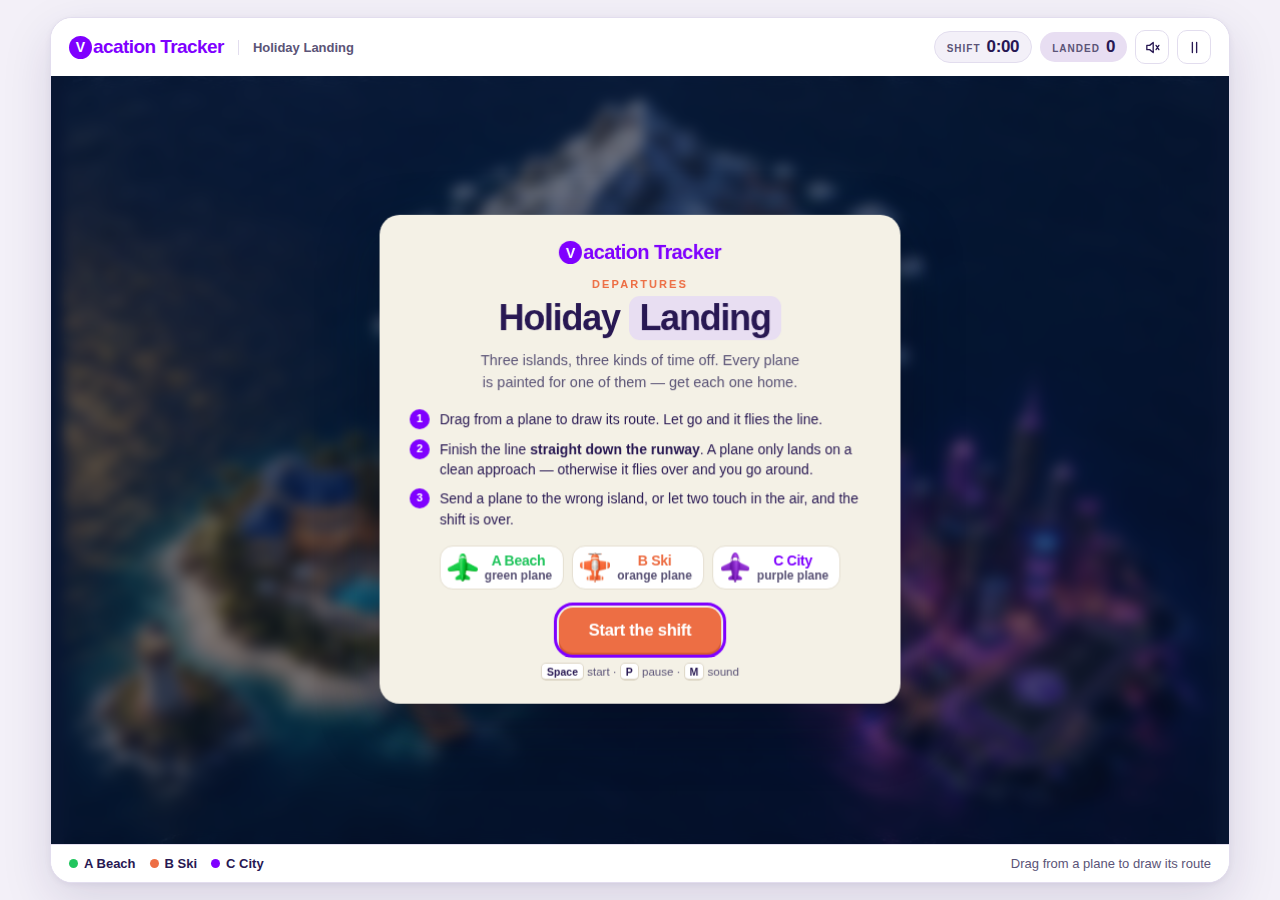
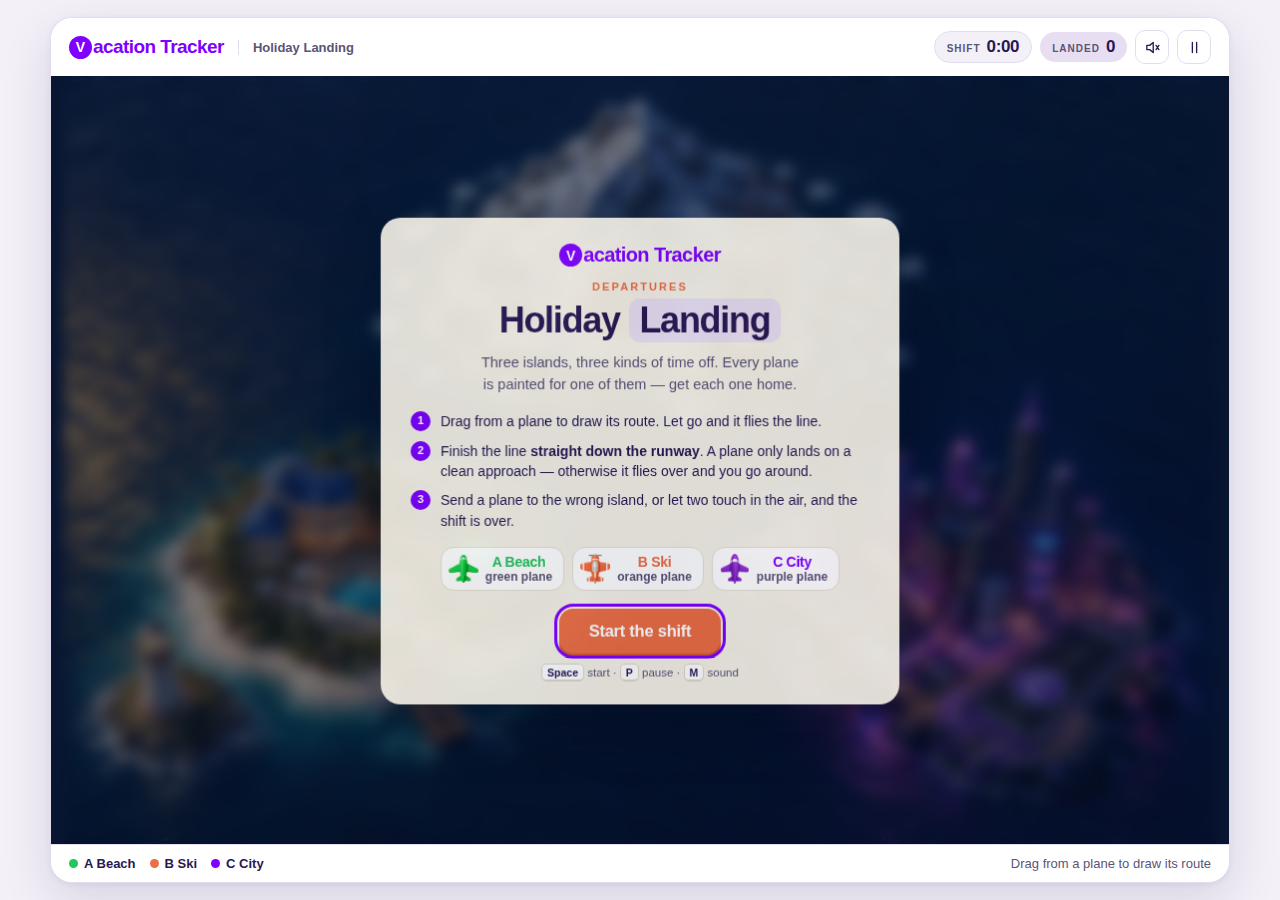
Stop the portrait gate firing on desktops, and fit the cards to short playfields
The artifact preview pane is about 610x660 - portrait, and under the 640px the
gate keys on - so it was showing "Turn your phone sideways" on a desktop. Anyone
opening a shared link in a narrow window or a side panel saw the same. That
panel yields a 580x387 playfield, larger than the 525x350 landscape-phone case
the spec already accepts, so gating it was plainly wrong.

The gate now also requires pointer:coarse, which is what separates a phone held
upright from a narrow browser window.

That exposed a second problem behind it: at 387px of playfield the start card
overflowed and the Start button sat below the fold. The cards now compact at
narrow widths and short heights, and below 520px wide (or 430px tall) the
overlay centres on the window rather than on the playfield, where there is
plenty of empty page above and below. Two lines drop out at the extremes: the
keyboard hint under 470px tall, then the framing sentence under 400px, by which
point the three rules carry everything a player needs.

Checked across fifteen window sizes from 380x700 to 1920x1080: both cards fit
with no overflow, the button stays reachable, and the canvas holds 1.5006.

Tests: 41 passing. Six cases pin which shapes the gate covers and which it must
stay out of, and one walks all fifteen sizes asserting both cards fit.

Claude-Session: https://claude.ai/code/session_019TZDTfSHxzrQf2YcUSXhd5

Changed region(s): [[0.3125, 0.2178, 0.6875, 0.5911], [0.3438, 0.5911, 0.6562, 0.7778]]

diff --git a/tests/01-load.spec.js b/tests/01-load.spec.js
@@ -52,3 +52,98 @@ test('every approach guide stays inside the canvas (10.2)', async ({ page }) => 
     }
   }
 });
+
+/* The portrait gate is for a phone held upright and nothing else. A narrow
+   browser window or an embedded side panel is also portrait and under 640px,
+   but it still gets a usable playfield, so gating it would be a regression —
+   and the artifact preview pane is exactly that shape. */
+const GATE_CASES = [
+  { w: 610,  h: 660,  touch: false, gated: false, what: 'artifact side panel' },
+  { w: 430,  h: 860,  touch: true,  gated: true,  what: 'phone held upright' },
+  { w: 430,  h: 860,  touch: false, gated: false, what: 'narrow desktop window' },
+  { w: 844,  h: 390,  touch: true,  gated: false, what: 'phone on its side' },
+  { w: 820,  h: 1180, touch: true,  gated: false, what: 'tablet upright' },
+  { w: 1280, h: 900,  touch: false, gated: false, what: 'desktop' },
+];
+
+for (const c of GATE_CASES) {
+  test(`the rotate gate ${c.gated ? 'covers' : 'stays out of'} a ${c.what}`, async ({ browser }) => {
+    const ctx = await browser.newContext({
+      viewport: { width: c.w, height: c.h }, hasTouch: c.touch, isMobile: c.touch,
+    });
+    const page = await ctx.newPage();
+    await load(page);
+    const r = await page.evaluate(() => {
+      const g = document.querySelector('.rotate');
+      const cv = document.getElementById('cv').getBoundingClientRect();
+      return {
+        gated: getComputedStyle(g).display !== 'none',
+        w: cv.width, h: cv.height, ratio: cv.width / cv.height,
+      };
+    });
+    expect(r.gated, `${c.w}x${c.h} touch=${c.touch}`).toBe(c.gated);
+    if (!c.gated) {
+      // whatever is not gated has to be actually playable
+      expect(r.w, `playfield was only ${Math.round(r.w)}px wide`).toBeGreaterThan(320);
+      expect(Math.abs(r.ratio - 1.501)).toBeLessThan(0.005);
+    }
+    await ctx.close();
+  });
+}
+
+/* Whatever the window, both cards have to fit inside it — an unreachable Start
+   button is a hard failure, and the artifact preview pane is one of these
+   shapes. */
+const FIT_SIZES = [
+  [610, 660], [560, 600], [500, 900], [430, 860], [380, 700], [700, 760],
+  [844, 390], [740, 360], [667, 375], [1024, 768], [1280, 900], [1440, 760],
+  [1920, 1080], [1280, 620], [900, 420],
+];
+
+test('the start and game-over cards fit every window size', async ({ page }) => {
+  await load(page);
+  const bad = [];
+  for (const [w, h] of FIT_SIZES) {
+    await page.setViewportSize({ width: w, height: h });
+    await page.waitForTimeout(60);
+
+    await page.evaluate(() => { window.__HL.S.phase = 'start'; });
+    await page.evaluate(() => {
+      const c = document.getElementById('card');
+      window.__probe = () => {
+        const btn = document.getElementById('go').getBoundingClientRect();
+        return {
+          overflow: c.scrollHeight - c.clientHeight,
+          reachable: btn.bottom <= innerHeight + 0.5 && btn.top >= -0.5,
+        };
+      };
+    });
+    const start = await page.evaluate(() => window.__probe());
+
+    // now the game-over card, which is the taller of the two
+    await page.evaluate(() => {
+      const H = window.__HL;
+      H.start(); H.hold(true); H.freeze(true); H.clear();
+      const r = H.RW.B;
+      H.add('a', r.tx - r.ux * 10, r.ty - r.uy * 10, r.deg, true);
+      for (let i = 0; i < 140; i++) H.step(1 / 60);
+    });
+    const over = await page.evaluate(() => {
+      const c = document.getElementById('card');
+      const btn = document.getElementById('go').getBoundingClientRect();
+      return {
+        overflow: c.scrollHeight - c.clientHeight,
+        reachable: btn.bottom <= innerHeight + 0.5 && btn.top >= -0.5,
+      };
+    });
+
+    for (const [name, r] of [['start', start], ['game-over', over]]) {
+      if (r.overflow > 0 || !r.reachable) {
+        bad.push(`${w}x${h} ${name}: overflow ${r.overflow}px, button ${r.reachable ? 'reachable' : 'OUT OF REACH'}`);
+      }
+    }
+    await page.reload();
+    await page.waitForFunction(() => window.__HL && !document.getElementById('veil').hidden);
+  }
+  expect(bad, `cards did not fit:\n  ${bad.join('\n  ')}`).toEqual([]);
+});

diff --git a/dist/artifact.html b/dist/artifact.html
@@ -151,9 +151,55 @@ kbd{font-family:inherit;font-size:10.5px;font-weight:750;background:#fff;border:
   .ftr{flex-wrap:wrap;gap:6px 14px}
   .hint{white-space:normal}
 }
-/* phones only: an 800px-wide tablet in portrait still gets a usable
-   790x526 playfield, so gating it would be a worse experience */
-@media (max-width:640px) and (orientation:portrait){ .rotate{display:grid} }
+/* A narrow window — or an embedded side panel, which is what the artifact
+   preview is — leaves a short playfield, so the cards have to shrink to fit
+   inside it rather than scroll. This touches the cards only; the header and
+   footer still fit at this width and stay put. */
+@media (max-width:820px), (max-height:620px){
+  .veil{padding:10px}
+  .card{padding:15px 17px;border-radius:15px}
+  .card .brand{margin-bottom:6px;font-size:16px}
+  .eyebrow{font-size:10px;letter-spacing:.16em;margin-bottom:4px}
+  h1{font-size:23px;margin-bottom:5px}
+  .lede{margin-bottom:9px;font-size:12.5px;line-height:1.38;max-width:34ch}
+  ol.rules{margin-bottom:10px}
+  ol.rules li{font-size:12px;margin-bottom:5px;padding-left:25px;line-height:1.35}
+  ol.rules li::before{width:17px;height:17px;font-size:10px}
+  .routes{margin-bottom:10px;gap:6px}
+  .route{padding:4px 8px 4px 5px;border-radius:11px;gap:5px}
+  .route img{width:22px;height:22px}
+  .route .k{font-size:12px}
+  .route .n{font-size:10.5px}
+  .btn{padding:9px 20px;font-size:14.5px;border-radius:12px}
+  .keys,.by{margin-top:8px;font-size:10.5px}
+  .reason{padding:9px 11px;font-size:12.5px;margin-bottom:10px}
+  .final{margin-bottom:10px;gap:6px}
+  .stat{padding:7px 11px;min-width:56px;border-radius:11px}
+  .stat u{font-size:9px}
+  .stat s{font-size:18px}
+}
+
+/* On a very short viewport — a phone on its side — the keyboard hint is both
+   the least useful line on the card and the last one to fit. */
+@media (max-height:470px){ .keys{display:none} }
+/* Shorter again and the framing line has to go too; the three rules still
+   say everything a player needs. */
+@media (max-height:400px){ .lede{display:none} }
+
+/* Narrower still and the playfield is shorter than any usable card, so the
+   overlay centres on the window rather than on the playfield — there is plenty
+   of empty page above and below it at that size. */
+@media (max-width:520px), (max-height:430px){
+  .veil{position:fixed;inset:0;z-index:30}
+}
+
+/* Phones held upright, and nothing else. `pointer:coarse` is what keeps this
+   off a desktop: a narrow browser window or a side panel is portrait and under
+   640px too, but it still gets a usable playfield (610x660 gives 580x387,
+   larger than the landscape-phone case), so gating it would be a regression. */
+@media (max-width:640px) and (orientation:portrait) and (pointer:coarse){
+  .rotate{display:grid}
+}
 @media (prefers-reduced-motion:reduce){ .card{animation:none} }
 </style>
 

diff --git a/dist/holiday-landing.html b/dist/holiday-landing.html
@@ -158,9 +158,55 @@ kbd{font-family:inherit;font-size:10.5px;font-weight:750;background:#fff;border:
   .ftr{flex-wrap:wrap;gap:6px 14px}
   .hint{white-space:normal}
 }
-/* phones only: an 800px-wide tablet in portrait still gets a usable
-   790x526 playfield, so gating it would be a worse experience */
-@media (max-width:640px) and (orientation:portrait){ .rotate{display:grid} }
+/* A narrow window — or an embedded side panel, which is what the artifact
+   preview is — leaves a short playfield, so the cards have to shrink to fit
+   inside it rather than scroll. This touches the cards only; the header and
+   footer still fit at this width and stay put. */
+@media (max-width:820px), (max-height:620px){
+  .veil{padding:10px}
+  .card{padding:15px 17px;border-radius:15px}
+  .card .brand{margin-bottom:6px;font-size:16px}
+  .eyebrow{font-size:10px;letter-spacing:.16em;margin-bottom:4px}
+  h1{font-size:23px;margin-bottom:5px}
+  .lede{margin-bottom:9px;font-size:12.5px;line-height:1.38;max-width:34ch}
+  ol.rules{margin-bottom:10px}
+  ol.rules li{font-size:12px;margin-bottom:5px;padding-left:25px;line-height:1.35}
+  ol.rules li::before{width:17px;height:17px;font-size:10px}
+  .routes{margin-bottom:10px;gap:6px}
+  .route{padding:4px 8px 4px 5px;border-radius:11px;gap:5px}
+  .route img{width:22px;height:22px}
+  .route .k{font-size:12px}
+  .route .n{font-size:10.5px}
+  .btn{padding:9px 20px;font-size:14.5px;border-radius:12px}
+  .keys,.by{margin-top:8px;font-size:10.5px}
+  .reason{padding:9px 11px;font-size:12.5px;margin-bottom:10px}
+  .final{margin-bottom:10px;gap:6px}
+  .stat{padding:7px 11px;min-width:56px;border-radius:11px}
+  .stat u{font-size:9px}
+  .stat s{font-size:18px}
+}
+
+/* On a very short viewport — a phone on its side — the keyboard hint is both
+   the least useful line on the card and the last one to fit. */
+@media (max-height:470px){ .keys{display:none} }
+/* Shorter again and the framing line has to go too; the three rules still
+   say everything a player needs. */
+@media (max-height:400px){ .lede{display:none} }
+
+/* Narrower still and the playfield is shorter than any usable card, so the
+   overlay centres on the window rather than on the playfield — there is plenty
+   of empty page above and below it at that size. */
+@media (max-width:520px), (max-height:430px){
+  .veil{position:fixed;inset:0;z-index:30}
+}
+
+/* Phones held upright, and nothing else. `pointer:coarse` is what keeps this
+   off a desktop: a narrow browser window or a side panel is portrait and under
+   640px too, but it still gets a usable playfield (610x660 gives 580x387,
+   larger than the landscape-phone case), so gating it would be a regression. */
+@media (max-width:640px) and (orientation:portrait) and (pointer:coarse){
+  .rotate{display:grid}
+}
 @media (prefers-reduced-motion:reduce){ .card{animation:none} }
 </style>
 

diff --git a/src/game.html b/src/game.html
@@ -151,9 +151,55 @@ kbd{font-family:inherit;font-size:10.5px;font-weight:750;background:#fff;border:
   .ftr{flex-wrap:wrap;gap:6px 14px}
   .hint{white-space:normal}
 }
-/* phones only: an 800px-wide tablet in portrait still gets a usable
-   790x526 playfield, so gating it would be a worse experience */
-@media (max-width:640px) and (orientation:portrait){ .rotate{display:grid} }
+/* A narrow window — or an embedded side panel, which is what the artifact
+   preview is — leaves a short playfield, so the cards have to shrink to fit
+   inside it rather than scroll. This touches the cards only; the header and
+   footer still fit at this width and stay put. */
+@media (max-width:820px), (max-height:620px){
+  .veil{padding:10px}
+  .card{padding:15px 17px;border-radius:15px}
+  .card .brand{margin-bottom:6px;font-size:16px}
+  .eyebrow{font-size:10px;letter-spacing:.16em;margin-bottom:4px}
+  h1{font-size:23px;margin-bottom:5px}
+  .lede{margin-bottom:9px;font-size:12.5px;line-height:1.38;max-width:34ch}
+  ol.rules{margin-bottom:10px}
+  ol.rules li{font-size:12px;margin-bottom:5px;padding-left:25px;line-height:1.35}
+  ol.rules li::before{width:17px;height:17px;font-size:10px}
+  .routes{margin-bottom:10px;gap:6px}
+  .route{padding:4px 8px 4px 5px;border-radius:11px;gap:5px}
+  .route img{width:22px;height:22px}
+  .route .k{font-size:12px}
+  .route .n{font-size:10.5px}
+  .btn{padding:9px 20px;font-size:14.5px;border-radius:12px}
+  .keys,.by{margin-top:8px;font-size:10.5px}
+  .reason{padding:9px 11px;font-size:12.5px;margin-bottom:10px}
+  .final{margin-bottom:10px;gap:6px}
+  .stat{padding:7px 11px;min-width:56px;border-radius:11px}
+  .stat u{font-size:9px}
+  .stat s{font-size:18px}
+}
+
+/* On a very short viewport — a phone on its side — the keyboard hint is both
+   the least useful line on the card and the last one to fit. */
+@media (max-height:470px){ .keys{display:none} }
+/* Shorter again and the framing line has to go too; the three rules still
+   say everything a player needs. */
+@media (max-height:400px){ .lede{display:none} }
+
+/* Narrower still and the playfield is shorter than any usable card, so the
+   overlay centres on the window rather than on the playfield — there is plenty
+   of empty page above and below it at that size. */
+@media (max-width:520px), (max-height:430px){
+  .veil{position:fixed;inset:0;z-index:30}
+}
+
+/* Phones held upright, and nothing else. `pointer:coarse` is what keeps this
+   off a desktop: a narrow browser window or a side panel is portrait and under
+   640px too, but it still gets a usable playfield (610x660 gives 580x387,
+   larger than the landscape-phone case), so gating it would be a regression. */
+@media (max-width:640px) and (orientation:portrait) and (pointer:coarse){
+  .rotate{display:grid}
+}
 @media (prefers-reduced-motion:reduce){ .card{animation:none} }
 </style>
 

diff --git a/tools/dbg/panel.js b/tools/dbg/panel.js
@@ -1,0 +1,10 @@
+const { chromium } = require('@playwright/test');
+(async()=>{
+  const b=await chromium.launch({executablePath:'/opt/pw-browsers/chromium',args:['--no-sandbox']});
+  const pg=await b.newPage({viewport:{width:610,height:660},deviceScaleFactor:2});
+  await pg.goto('file:///home/user/vacation-landing/dist/holiday-landing.html');
+  await pg.waitForFunction(()=>window.__HL&&!document.getElementById('veil').hidden);
+  await pg.waitForTimeout(400);
+  await pg.screenshot({path:'shots/11-side-panel.png'});
+  await b.close(); console.log('ok');
+})();

diff --git a/README.md b/README.md
@@ -15,7 +15,7 @@ tools/prep_assets.py     keys, trims and compresses the art
 tools/build.js           inlines the art as data URIs -> dist/
 dist/holiday-landing.html   standalone
 dist/artifact.html          same page without the document skeleton
-tests/                   Playwright suite (34 tests)
+tests/                   Playwright suite (41 tests)
 RUNWAYS.md               the runway corners, and how they were measured
 ```
 
@@ -23,7 +23,7 @@ RUNWAYS.md               the runway corners, and how they were measured
 npm install
 python3 tools/prep_assets.py     # art  -> assets/
 node tools/build.js              # art + code -> dist/
-npx playwright test              # 34 tests
+npx playwright test              # 41 tests
 ```
 
 ## Size
@@ -84,7 +84,15 @@ arrives about as long before contact — 78px early on, 109px at full speed.
 **8. Arrival types come from a shuffled bag.** §5.1 picks "uniformly from a/b/c",
 which produces runs of six or seven. See **Arrivals** below.
 
-**9. Planes turn back at the edges instead of flying away.** The spec does not
+**9. The portrait gate is limited to touch devices.** §10.5 asks for a portrait
+gate on small screens. Keyed on width and orientation alone it also fires on a
+desktop: a narrow window, or an embedded side panel like the artifact preview
+pane, is portrait and under 640px too — but a 610x660 panel still yields a
+580x387 playfield, larger than the landscape-phone case the spec accepts. The
+gate now also requires `pointer:coarse`, and the cards compact so they fit
+inside a short playfield rather than scrolling out of reach.
+
+**10. Planes turn back at the edges instead of flying away.** The spec does not
 say what happens to a plane that reaches the boundary. Letting them leave would
 make the game trivial — you could ignore every plane. They now reflect off the
 edge and loiter, which is what makes the concurrency cap the difficulty lever §6
@@ -156,7 +164,7 @@ prove the plane is flying the line mid-drag rather than waiting for the mouse.
 
 ## Tests
 
-34 Playwright tests covering every item in §12, plus the end-to-end player loop
+41 Playwright tests covering every item in §12, plus the end-to-end player loop
 (sweep a curve across the map, finish it down the runway, land). Chromium is
 launched from `/opt/pw-browsers/chromium`; adjust `playwright.config.js`
 elsewhere.
